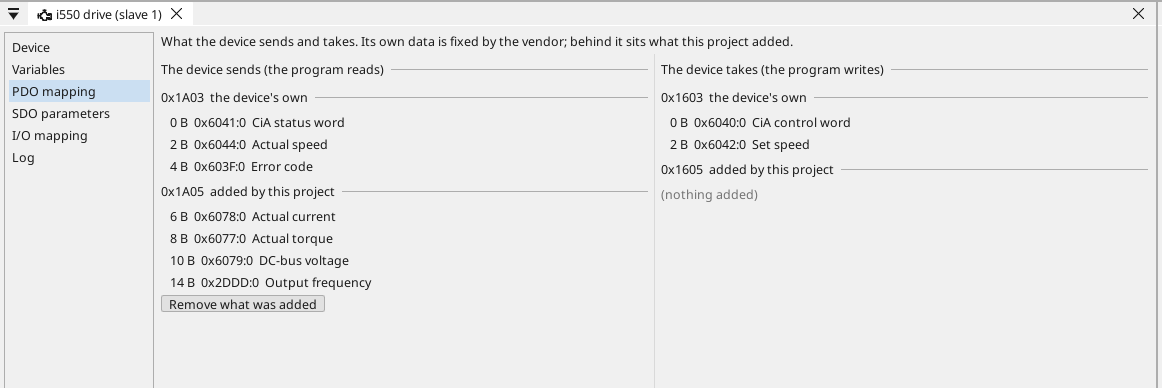
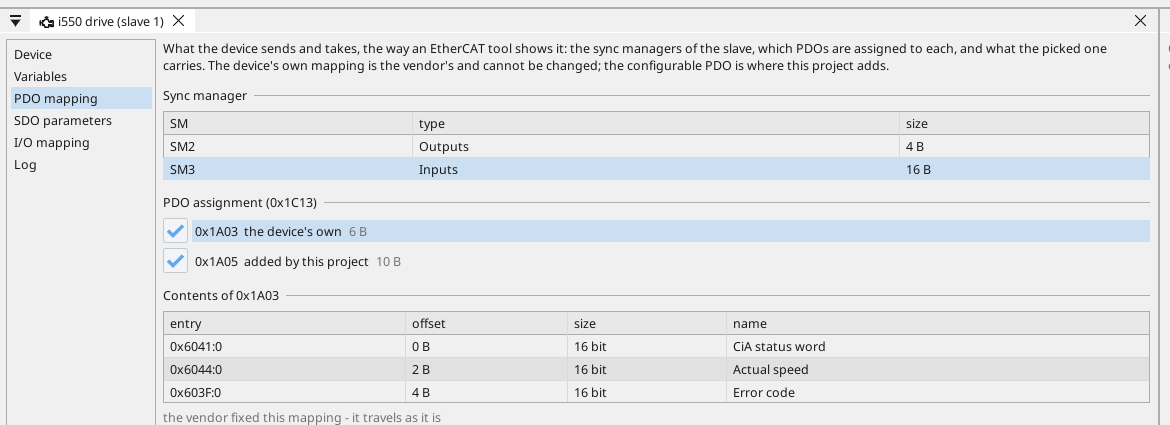
the EtherCAT pages show the process data tab as it now is: sync managers, the assignment and the contents of the picked PDO

diff --git a/docs/ethercat.md b/docs/ethercat.md
@@ -53,15 +53,19 @@ Double-click a slave and it opens with the same tabs a CAN device has:
   drive the four byte offsets of the CiA 402 words.
 - **Variables** — the device's own objects. Tick what it should send or
   take and *Import* writes the rest.
-- **PDO mapping** — what really travels, in both directions: the data
-  the vendor fixed, and behind it what this project added.
+- **PDO mapping** — what really travels, in the shape every EtherCAT
+  tool uses: the slave's **sync managers** (SM2 carries the outputs,
+  SM3 the inputs), the **PDOs assigned** to the one picked, and the
+  **entries** of the PDO picked among those, each with its offset and
+  its name. The device's own mapping is the vendor's and is shown as
+  it is; the configurable PDO is the one this project fills.
 - **SDO parameters** — what is written into the device every time the
   line starts.
 - **I/O mapping** — which byte of the image feeds which variable, with
   its gain and offset.
 - **Log** — the device's own messages, read from the panel.
 
-![The PDO tab: what the drive sends by itself, and what this project added behind it](img/ethercat-device.webp){: .sb-center}
+![The PDO tab in the shape every EtherCAT tool uses: the sync managers, what is assigned to the picked one, and what that PDO carries](img/ethercat-device.webp){: .sb-center}
 
 ---
 

diff --git a/docs/tutorial-ethercat.md b/docs/tutorial-ethercat.md
@@ -1,6 +1,6 @@
 ---
 image: img/ethercat-device.webp
-image_alt: "The PDO tab of an EtherCAT drive: its own data and what was added to it"
+image_alt: "The PDO tab of an EtherCAT drive: its sync managers, the assigned PDOs and what they carry"
 ---
 
 # EtherCAT, step by step
@@ -80,7 +80,7 @@ Double-click the slave. The window has the same tabs a CAN device has,
 and the one to read first is **PDO mapping**: what the device sends by
 itself, and what this project added behind it.
 
-![The PDO tab of the drive: its own data, and what was added](img/ethercat-device.webp){: .sb-center}
+![The PDO tab: the sync managers of the drive, the PDOs assigned to the one picked, and the entries that PDO carries](img/ethercat-device.webp){: .sb-center}
 
 A drive always sends its status word, its actual speed and its error
 code. The current, the torque, the DC link voltage and the output
